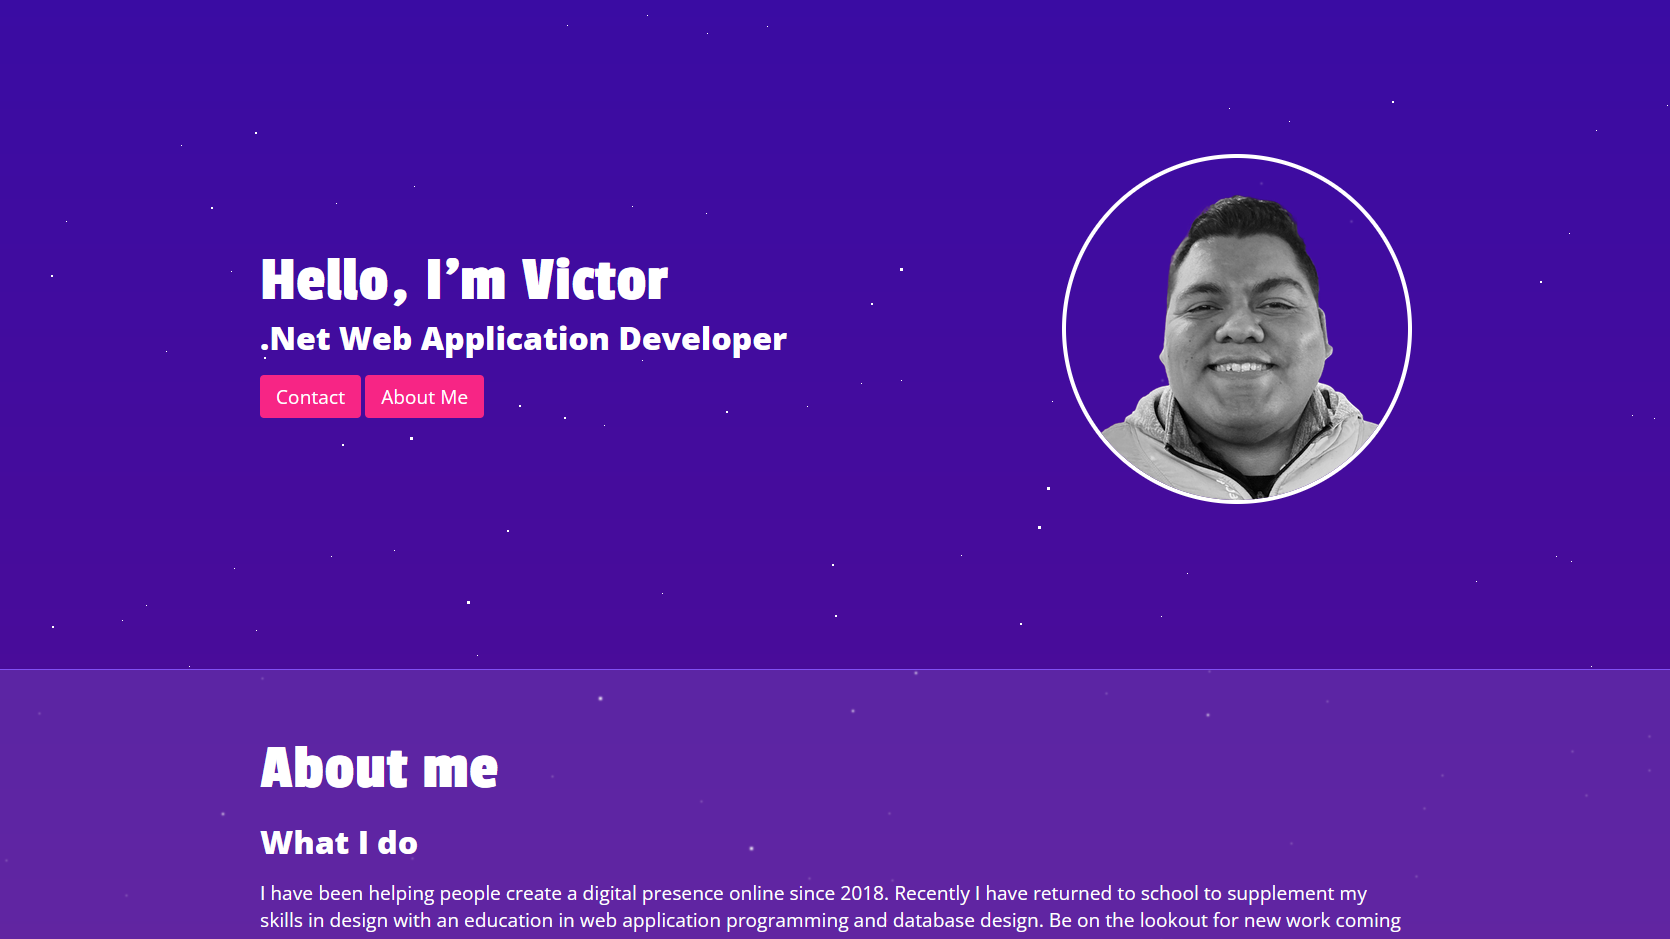
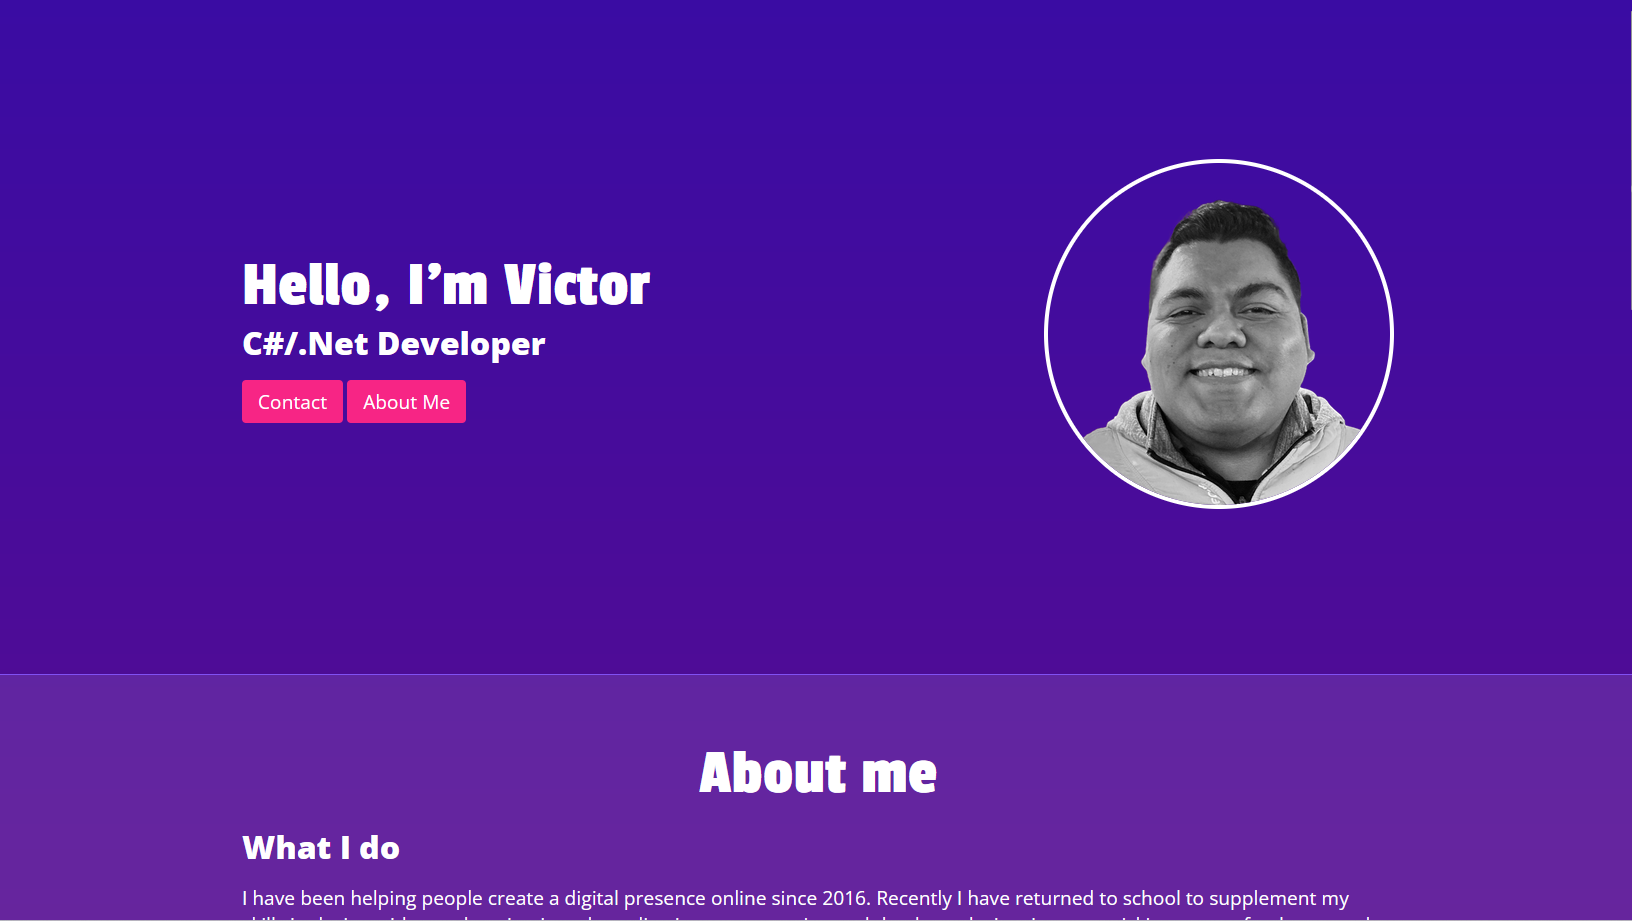
Updated microblog link and language

diff --git a/index.html b/index.html
@@ -19,7 +19,7 @@
                         <div id="top-card">
                             <div class="project-content">
                                 <h1>Hello, I'm Victor</h1>
-                                <h2>.Net Web Application Developer</h2>
+                                <h2>C#/.Net Developer</h2>
                                 <section id="hero-links">
                                     <a href="#contact" class="project-link-button small-button">Contact</a>
                                     <a href="#about-me" class="project-link-button small-button">About Me</a>
@@ -35,13 +35,13 @@
                         <div id="about-me">
                             <h1 class="text-center">About me</h1>
                             <h2>What I do</h2>
-                            <p>I have been helping people create a digital presence online since 2018. Recently I have returned to school to supplement my skills in design with an education in web application programming and database design. Be on the lookout for new work coming to this site soon showcasing my personal work in custom made websites and web applications. Don't hesitate to send me a message!</p>
+                            <p>I have been helping people create a digital presence online since 2016. Recently I have returned to school to supplement my skills in design with an education in web application programming and database design. I am not picking up any freelance work at the moment as I am focused on my career change. If you would still like to reach out to me please contact me via Linkedin. If you just want to say hello 👋 please use any platform at the bottom of this page.</p>
                             <h2>What I use</h2>
                             <div id="tool-kit">
                                 <!-- <a href="https://skillicons.dev"> -->
-                                <img src="https://skillicons.dev/icons?i=html,css,js,ts,cs,py" alt="languages icons"/>
+                                <img src="https://skillicons.dev/icons?i=html,css,js,cs,py" alt="languages icons"/>
                                 <img src="https://skillicons.dev/icons?i=azure,bootstrap,dotnet" alt="adobe cs cloud icons"/>
-                                <img src="https://skillicons.dev/icons?i=visualstudio,vscode,github,wordpress" alt="coding environment icons"/>
+                                <img src="https://skillicons.dev/icons?i=visualstudio,vscode,github" alt="coding environment icons"/>
                             </div>
                         </div>
                     </section>
@@ -54,15 +54,15 @@
                                 <div class="project-image lg-hide">
                                     <img src="images/project_cm_full.png" alt="test">
                                 </div>
-                                <p>My first ASP .NET MCV application published to the web. I use this blog to post my development journey since the start of this very project. Any day I code, I post an entry!</p>
+                                <p>An ASP .NET Core MCV application published to the cloud in Azure. Currently hosting AI generated posts as I work on original content. Version 2 coming soon with guest admin account and more Markdown support.</p>
                                 <div class="tech-kit"><img src="https://skillicons.dev/icons?i=html,css,cs,azure,bootstrap,dotnet" alt="portfolio website languages used"></div>
                                 <div class="project-links">
                                     <a href="https://github.com/celestialmachine/Microblog" target="_blank" class="project-link-button">View in GitHub</a>
-                                    <a href="#" class="project-link-button">View page</a>
+                                    <a href="https://diazmicroblogv1.azurewebsites.net/" target="_blank" class="project-link-button">View Web App</a>
                                 </div>
                             </div>
                             <div class="project-image sm-hide">
-                                <img src="images/project_cm_full.png" alt="test">
+                                <img src="images/project_mblg_full.png" alt="test">
                             </div>
                         </div>
                     </section>
@@ -74,7 +74,7 @@
                                 <div class="project-image lg-hide">
                                     <img src="images/project_cm_full.png" alt="test">
                                 </div>
-                                <p>There is no understanding without a good foundation. This portfolio website is built with no frameworks using only vanilla html, css, and javascript.</p>
+                                <p>Mastery of web technologies relies on a solid understanding of the foundation. This portfolio website is built with no frameworks using only vanilla html, css, and javascript.</p>
                                 <div class="tech-kit"><img src="https://skillicons.dev/icons?i=html,css,js" alt="portfolio website languages used"></div>
                                 <div class="project-links">
                                     <a href="https://github.com/celestialmachine/CelestialMachine-website" target="_blank" class="project-link-button">View in GitHub</a>
@@ -109,7 +109,6 @@
                         <section id="last-card">
                             <section id="contact">
                                 <h2>Contact Me</h2>
-                                <p>I am not picking up any freelance work at the moment as I am focused on my education and career change. If you would still like to reach out to me please contact me via Linkedin. If you just want to say hello 👋 shoot me a message on any platform below.</p>
                                 <section id="socials">
                                         <a href="https://www.linkedin.com/in/victor-diaz-30082b134/" target="_blank"><img src="https://skillicons.dev/icons?i=linkedin"/></a>
                                         <a href="https://github.com/celestialmachine" target="_blank"><img src="https://skillicons.dev/icons?i=github"/></a>
@@ -121,7 +120,7 @@
                     </section>
 
                     <footer>
-                        <p>Made with &#128153; by Victor Alfonso Diaz | &copy 2023 | Latest revision: Feb 2023</p>
+                        <p>Made with &#128153; by Victor Alfonso Diaz | &copy 2023 | Latest revision: June 2023</p>
                     </footer>
 
                 </section>

diff --git a/styles/styles.css b/styles/styles.css
@@ -71,13 +71,6 @@ main {
     background: linear-gradient(180deg, #3A0CA3, #8c0d71);
     z-index: -100;
 }
-@media not all and (min-resolution:.001dpcm)
-{ @supports (-webkit-appearance: none) and (stroke-color: transparent){
-    main{
-        background-color: transparent;
-    }
-}
-}
 
 #contentField {
     margin: auto;
@@ -209,6 +202,7 @@ p {
 .project-image > img{
     object-fit: cover;
     width: 600px;
+    border-radius: 5px;
 }
 .lg-hide {
     display: none;
